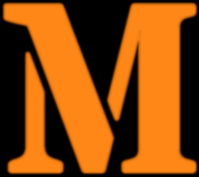
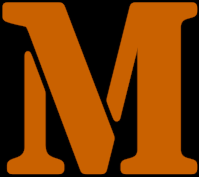
CSS laranja e preto.

diff --git a/laudario/masks/static/masks/css/mascara.css b/laudario/masks/static/masks/css/mascara.css
@@ -3,6 +3,12 @@
 
 .btn-primary {
       background-color: #000000;
+      color: #ffffff;
+}
+
+.btn-primary:hover {
+      background-color: #000000;
+      color: #ffffff;
 }
 
 #diagnosticos_div {
@@ -37,6 +43,7 @@
 
 #botaonovamascara {
       background-color: #000000;
+      color: #ffffff;
 
 }
 
@@ -79,8 +86,8 @@
 #botaoAdicionarAlteracao {
 
 
-      background-color: #000000;
-      color: #ff8717;
+      background-color: #c96100;
+      color: #000000;
       margin-bottom: 5px;
 
 
@@ -91,14 +98,14 @@
 
 
 #navbarSupportedContent a:hover {
-    color: #ff8717;
+    color: #c96100;
     text-decoration: none;
 
 }
 
 
 #navbarSupportedContent a {
-    color: white;
+    color: #ffffff;
     font-size: 1.5rem;
     margin-top: 80px;
     padding-top: 20px;
@@ -123,10 +130,10 @@
 }
 
 .botao_calculadora {
-color: #ff8717;
-
-border-radius: 5px;
-      background-color: #000000;
+color: #000000;
+margin: .1rem;
+border-radius: 1rem;
+      background-color: #c96100;
     position: relative;
     width: 100%;
     height: 0;
@@ -137,10 +144,10 @@ border-radius: 5px;
 }
 
 .botao_calculadora_nominal {
-color: #ff8717;
-border-radius: 5px;
-
-      background-color: #000000;
+color: #000000;
+border-radius: 1rem;
+    margin: .1rem;
+      background-color: #c96100;
 
 
     position: relative;
@@ -151,10 +158,10 @@ border-radius: 5px;
 }
 
 .botao_calculadora_duplo {
-color: #ff8717;
-border-radius: 5px;
-
-      background-color: #000000;
+color: #000000;
+border-radius: 1rem;
+    margin: .1rem;
+      background-color: #c96100;
 
         width: 100%;
     height: 0;
@@ -164,10 +171,11 @@ border-radius: 5px;
 }
 
 .botao_calculadora_triplo {
-border-radius: 5px;
+border-radius: 1rem;
+margin: .1rem;
 
-color: #ff8717;
-    background: gray;
+color: #000000;
+    background: #898989;
         width: 100%;
     height: 0;
     padding-bottom: 20%;
@@ -204,8 +212,8 @@ color: #ff8717;
         margin-left: 20%;
                 margin-top:10px;
                 padding: 10px;
-                border-radius: 10px;
-                background-color: gray
+                border-radius: .5rem;
+                background-color: #000000;
 
 
 }
@@ -231,6 +239,16 @@ color: #ff8717;
 .input_curto {
     width: 100%
 
+
+}
+
+#link_topico_anormal {
+    color: #000000;
+}
+
+#link_topico_anormal:hover {
+    color: #000000;
+    text-decoration: none;
 
 }
 
@@ -311,11 +329,10 @@ color: #ff8717;
 
 #myfooter {
 
-
     text-align: center;
     background-color: #000000;
     padding: 5px;
-    color: white;
+    color: #ffffff;
     height: 2rem;
 }
 
@@ -323,16 +340,23 @@ color: #ff8717;
     color: #0366d6;
 }
 
-#link_mascara {
-        color: #495057;
+
+
+.link_mascara:hover {
+        color: #000000;
+        text-decoration: none;
 
 }
+
+
 
 .card-body {
     padding: 0;
 }
 
 .link_mascara {
+        color: #000000;
+
     padding: 2rem;
 }
 
@@ -343,8 +367,25 @@ color: #ff8717;
 
 }
 
+.card-header {
+    background-color: #000000;
+
+}
+
+.btn-link {
+    color: #ffffff;
+}
+
+.btn-link:hover {
+    color: #c96100;
+    text-decoration: none;
+}
 
 
+.btn-link:focus {
+    text-decoration: none;
+
+}
 
 
 

diff --git a/laudario/masks/templates/masks/editar_mascara.html b/laudario/masks/templates/masks/editar_mascara.html
@@ -257,14 +257,14 @@ e evitar duplicidade de funções. Depois posso melhora isso aqui.-->
 
 </div>
 
-<div class="col-6">
+<div class="col-6" style="padding-top: 1rem;">
 
   {% for topico_anormal in topicos_anormais %}
                         <div class="container-fluid" style="margin: 2px; padding: 2px;">
-                    <div class="row">
+                    <div class="row" >
                     <div class="col-6">
 
-                        <a href="">{{ topico_anormal.nome }}</a>
+                        <a id="link_topico_anormal" href="">{{ topico_anormal.nome }}</a>
                     </div>
 
                     <div class="col">

diff --git a/laudario/masks/static/masks/js/mascara.js b/laudario/masks/static/masks/js/mascara.js
@@ -1308,7 +1308,7 @@ function insertAtCursor(text) {
     function mostrarBotaoPopularSeNecessario() {
 
     if(document.getElementById(window.location.href.substring(window.location.href.lastIndexOf('/') + 1)) != null) {
-            document.getElementById(window.location.href.substring(window.location.href.lastIndexOf('/') + 1)).style.color = "#ff8717";
+            document.getElementById(window.location.href.substring(window.location.href.lastIndexOf('/') + 1)).style.color = "#c96100";
 
     }
 

diff --git a/laudario/masks/templates/masks/base.html b/laudario/masks/templates/masks/base.html
@@ -55,7 +55,7 @@
                     </li>
                 </ul>
                 <form id="form_username">
-                    <span style="color: #ff8717;" id="username">{{ user.username }}</span>
+                    <span style="color: #c96100;" id="username">{{ user.username }}</span>
                     <a style="font-size: 1.3rem;" href="{% url 'logout_usuario' %}">Logout</a>
 
                 </form>

diff --git a/laudario/masks/templates/masks/mascara.html b/laudario/masks/templates/masks/mascara.html
@@ -159,7 +159,7 @@
 
                   <div id="teclado">
 
-                      <div class="container-fluid" style="background-color: gray; padding: 10px; border-radius: 10px;">
+                      <div class="container-fluid" style="background-color: #000000; padding: 10px; border-radius: 10px;">
 
                             <div class="row no-gutters">
 

diff --git a/laudario/masks/static/masks/css/erro.css b/laudario/masks/static/masks/css/erro.css
@@ -2,4 +2,5 @@
     position: fixed;
     bottom: 0;
     width: 100%;
+    color: #ffffff;
 }
